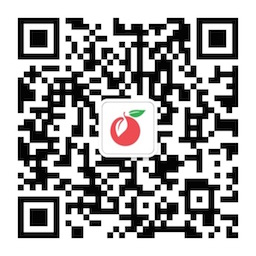
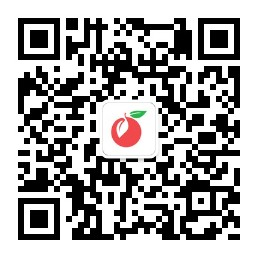
add back-to-top directive

diff --git a/client/components/directives/backToTop/backToTop.less b/client/components/directives/backToTop/backToTop.less
@@ -1,0 +1,62 @@
+.back-to-top-container{
+  position: fixed;
+  bottom: 0;
+  width: 100%;
+  left: 0;
+  .container{
+    position: relative;
+  }
+  .back-to-top{
+    position: absolute;
+    bottom: 15px;
+    right: -26px;
+    @media screen and (max-width: @screen-sm) {
+      bottom: 0;
+      right: 50%;
+      .cell + .cell{
+        display: none;
+      }
+    }
+  }
+}
+.back-to-top{
+  position: fixed;
+  bottom: 15px;
+  right: 15px;
+  .cell{
+    width: 36px;
+    height: 36px;
+    display: block;
+    font-size: 20px;
+    border: 1px solid @gray-lighter;
+    background-color: #FFF;
+    color: @gray-light;
+    text-align: center;
+    line-height: 36px;
+    transition: all .13s;
+    cursor: pointer;
+    & + .cell{
+      border-top: none;
+    }
+    &:hover{
+      color: @gray;
+    }
+    position: relative;
+  }
+  .qr-wrap{
+    width: 200px;
+    height: 230px;
+    cursor: initial;
+    position: absolute;
+    background-color: #FFF;
+    bottom: -1px;
+    right: 35px;
+    border: 1px solid @gray-lighter;
+    line-height: normal;
+    font-size: 14px;
+    .qrcode{
+      width: 100%;
+    }
+  }
+
+}

diff --git a/client/index.tmpl.html b/client/index.tmpl.html
@@ -43,11 +43,17 @@
   <![endif]-->
 
   <!-- Add your site or application content here -->
-  <div ng-if="!webview"
+  <div id="navbar"
+       ng-if="!webview"
        ng-include="'components/navbar/navbar.html'"></div>
   <div ui-view class="fadeIn" style="min-height: 400px"></div>
   <div ng-if="!webview"
        ng-include="'components/footer/footer.html'"></div>
+  <div class="back-to-top-container">
+    <div class="container">
+      <back-to-top></back-to-top>
+    </div>
+  </div>
   <!--[if lt IE 9]>
   <script src="bower_components/es5-shim/es5-shim.js"></script>
   <script src="bower_components/json3/lib/json3.min.js"></script>

diff --git a/client/app/app.less b/client/app/app.less
@@ -41,7 +41,6 @@
 @import 'main/reset/reset.less';
 @import 'notice/notice.less';
 @import 'social/socialShare/socialShare.less';
-@import 'social/socialTile.less';
 @import 'theme/anchor.less';
 @import 'theme/animations.less';
 @import 'theme/blog.less';
@@ -70,6 +69,7 @@
 @import 'user/userTile/userTileMiddle.less';
 @import 'user/userTile/userTileSmall.less';
 @import 'decorators/pagination/pagination.less';
+@import 'directives/backToTop/backToTop.less';
 @import 'directives/imageZoom/imageZoomViewer.less';
 @import 'directives/loadingTile/loadingTile.less';
 @import 'directives/pen/pen.less';

diff --git a/client/admin/index.html b/client/admin/index.html
@@ -96,6 +96,7 @@
   <script src="components/decorators/pagination/pagination.decorator.js"></script>
   <script src="components/decorators/textAngular.config.js"></script>
   <script src="components/directives/backButton.directive.js"></script>
+  <script src="components/directives/backToTop/backToTop.directive.js"></script>
   <script src="components/directives/compileHtml.directive.js"></script>
   <script src="components/directives/disableAnimation.directive.js"></script>
   <script src="components/directives/fixWhenReachTop.directive.js"></script>

diff --git a/client/test/index.html b/client/test/index.html
@@ -82,6 +82,7 @@
   <script src="components/decorators/pagination/pagination.decorator.js"></script>
   <script src="components/decorators/textAngular.config.js"></script>
   <script src="components/directives/backButton.directive.js"></script>
+  <script src="components/directives/backToTop/backToTop.directive.js"></script>
   <script src="components/directives/compileHtml.directive.js"></script>
   <script src="components/directives/disableAnimation.directive.js"></script>
   <script src="components/directives/fixWhenReachTop.directive.js"></script>

diff --git a/client/components/directives/backToTop/backToTop.html b/client/components/directives/backToTop/backToTop.html
@@ -1,0 +1,12 @@
+<div class="back-to-top fade-show-hide" ng-show="viewState.showBackToTop">
+  <a class="cell" href="#navbar" du-smooth-scroll>
+    <i class="fa fa-chevron-up"></i>
+  </a>
+  <div class="cell" ng-mouseenter="viewState.hover=true" ng-mouseleave="viewState.hover=false">
+    <i class="fa fa-qrcode"></i>
+    <div class="qr-wrap fade-show-hide" ng-show="viewState.hover==true">
+      <img src="/assets/images/QR.jpg" class="qrcode" alt="">
+      微信公众号
+    </div>
+  </div>
+</div>

diff --git a/client/app/theme/anchor.less b/client/app/theme/anchor.less
@@ -34,25 +34,3 @@
   }
 }
 
-.back-to-top{
-  display: block;
-  width: 36px;
-  height: 36px;
-  background: @base-color;
-  color: #FFFFFF;
-  margin: auto;
-  border-radius: 36px;
-  text-align: center;
-  cursor: pointer;
-  .box-shadow(0 2px 2px rgba(0,0,0,0.3));
-  font-size: 20px;
-  position: fixed;
-  bottom: 30px;
-  right: 30px;
-  &:hover{
-    .box-shadow(none);
-  }
-  &.active{
-    display: none;
-  }
-}

diff --git a/client/app/main/main.less b/client/app/main/main.less
@@ -71,23 +71,7 @@
       background-repeat: repeat-x;
     }
   }
-  .social-tile-section{
-    width: 100%;
-    .container{
-      position: relative;
-    }
-    .social-tile{
-      position: absolute;
-      margin-top: 15px;
-      left: -100px;
-    }
-    &.fixed{
-      position: fixed;
-      top: 0px;
-      left: 0;
-      z-index: 1000;
-    }
-  }
+
   .discover-courses{
     padding: 0 0 40px 0;
   }

diff --git a/client/components/theme/theme.less b/client/components/theme/theme.less
@@ -35,10 +35,13 @@
 @input-border-focus: @base-color-dark;
 @input-border-radius-base: @border-radius-small;
 
+@screen-xs:                  480px;
+
+@screen-sm:                  768px;
+
 @screen-md:                  1062px;
 
 @screen-lg:                  1360px;
-
 // Medium screen / desktop
 @container-desktop:            ((1000px + @grid-gutter-width));
 

diff --git a/client/admin/app.less b/client/admin/app.less
@@ -9,6 +9,7 @@
 @import 'main/main.less';
 @import 'navbar/navbar.less';
 @import 'decorators/pagination/pagination.less';
+@import 'directives/backToTop/backToTop.less';
 @import 'directives/imageZoom/imageZoomViewer.less';
 @import 'directives/loadingTile/loadingTile.less';
 @import 'directives/pen/pen.less';

diff --git a/client/app/main/main.html b/client/app/main/main.html
@@ -39,12 +39,6 @@
 
   </div>
 
-  <div class="social-tile-section" fix-when-reach-top offset="540">
-    <div class="container">
-      <social-tile ></social-tile>
-    </div>
-  </div>
-
   <div class="discover-news">
     <div class="container">
       <h3 class="discover-news-title text-primary">

diff --git a/client/test/app.less b/client/test/app.less
@@ -6,6 +6,7 @@
 
 // injector:less
 @import 'decorators/pagination/pagination.less';
+@import 'directives/backToTop/backToTop.less';
 @import 'directives/imageZoom/imageZoomViewer.less';
 @import 'directives/loadingTile/loadingTile.less';
 @import 'directives/pen/pen.less';
